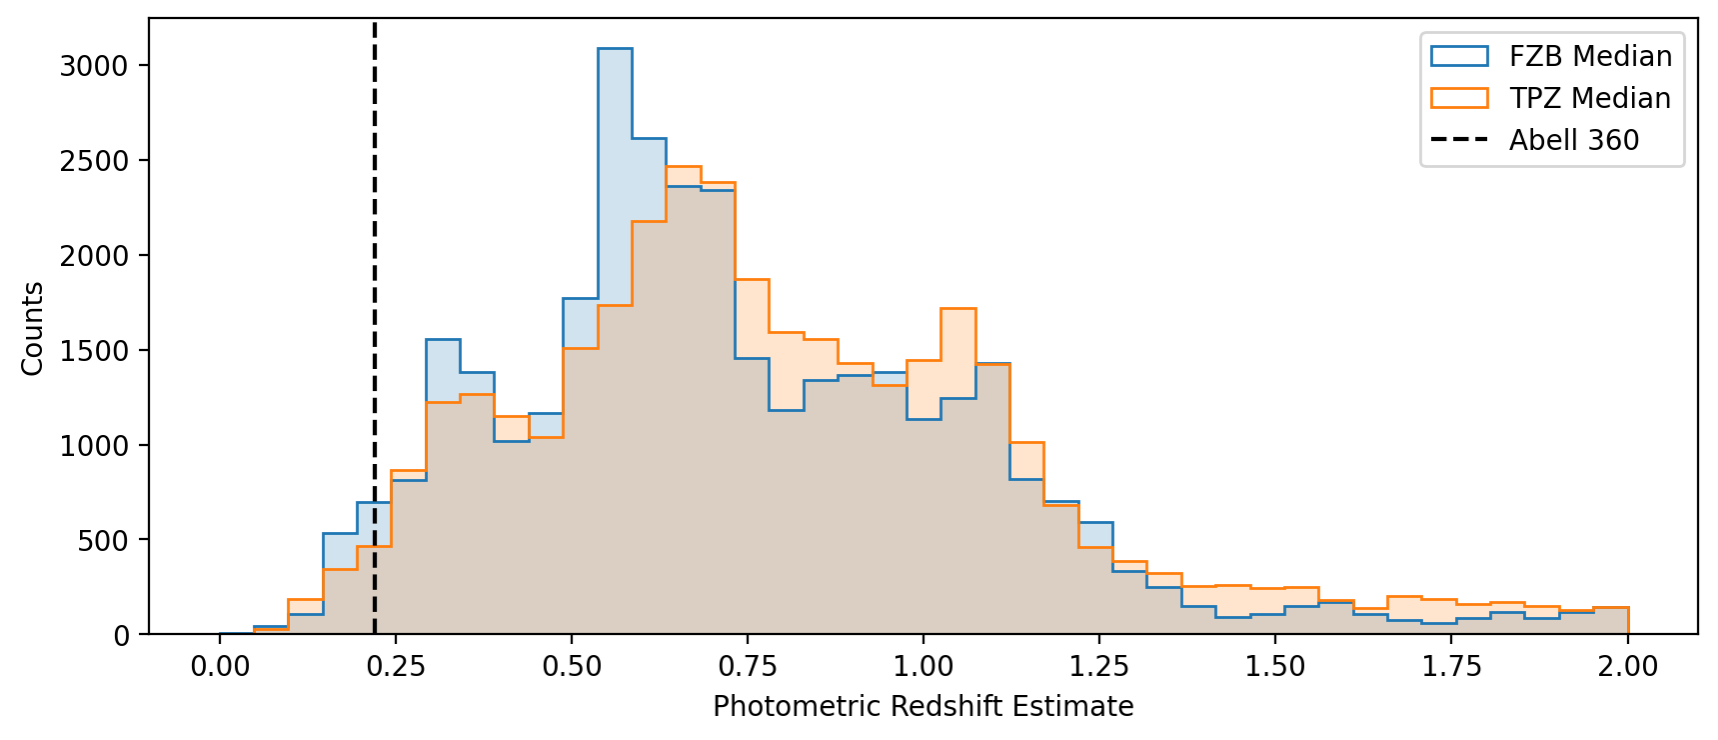
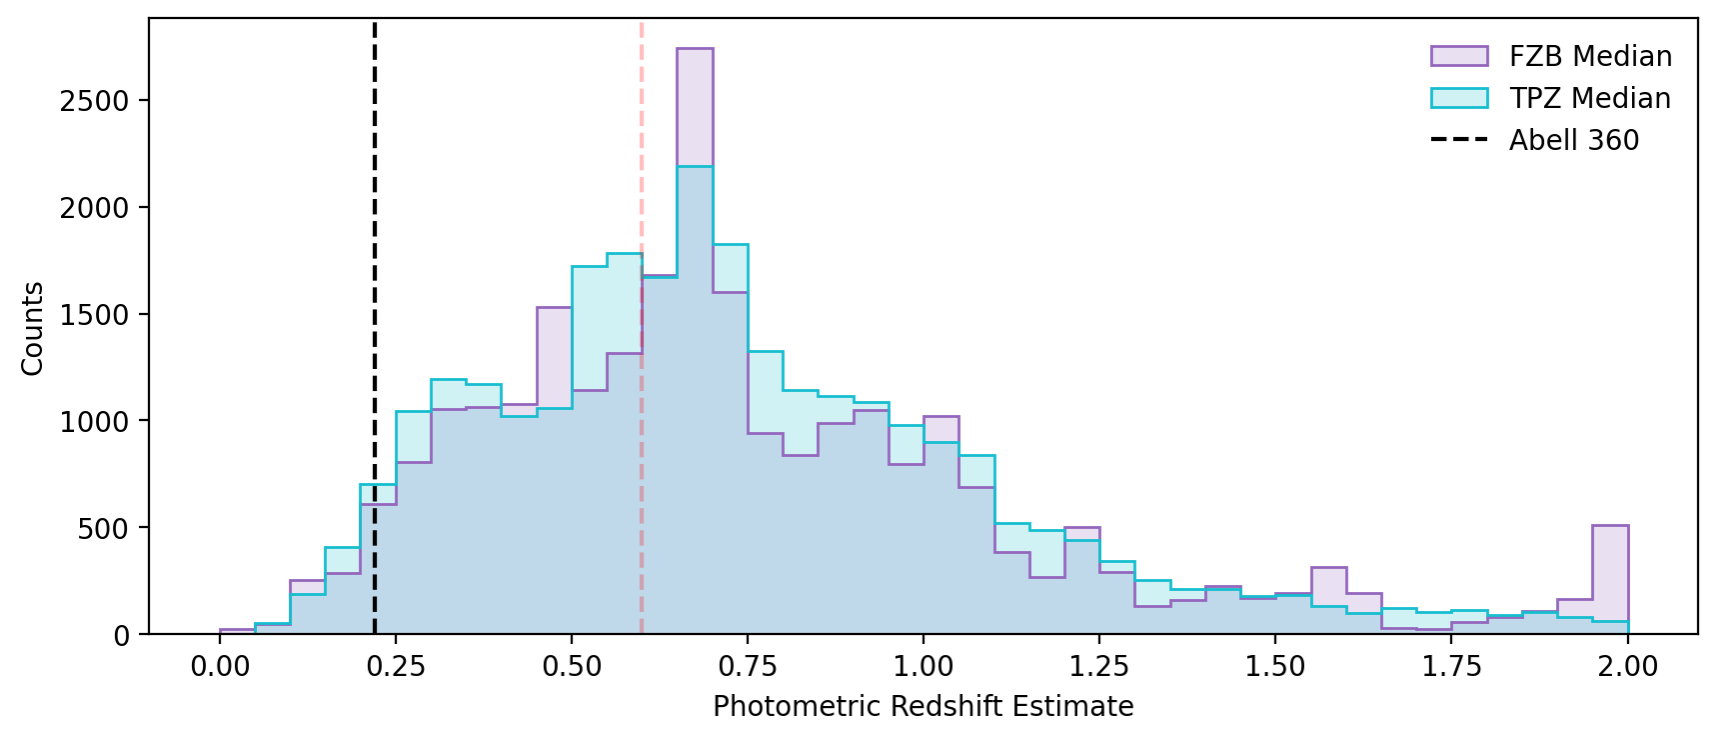
updated text, citations, and tables

diff --git a/index.md b/index.md
@@ -11,101 +11,209 @@ In order to best measure the shear profile of the cluster, we would ideally only
 
 
 ## Dataset
-The Rubin SV 38 7 field has been observed in g (44 visits), r (55 visits), i (57 visits) and z (27 visits) {cite:p}`RTN-011` with no visits in u and y-band. {cite:p}`DMTN-242`
-The DP1 catalog includes various flux measurements including cModel and gaap along with HSM shape measurements. 
+The Rubin SV 38 7 field has been observed in *g* (44 visits), *r* (55 visits), *i* (57 visits) and *z* (27 visits) {cite:p}`RTN-011` with no visits in u and y-band. {cite:p}`DMTN-242`
+The DP1 catalog includes various flux measurements including cModel and gaap along with HSM shape measurements {cite:p}`HSM1, HSM2`. 
 The HSM resolution factor, defined as $R = 1-\frac{T_\textrm{PSF}}{T_\textrm{I}}$, can be calculated from the catalog.
 Photometric redshift estimates are not included in the DP1 catalog but have been created as outlined in {cite:p}`SITCOMTN-154`.
 Similarly, details on PSF and photometric calibration are located in {cite:p}`SITCOMTN-161` and __photometric calibration technote?__ . We will focus on the various cuts made to generate the cluster lensing sample for Abell 360. 
 
 
 We apply basic quality flags to remove objects that have caused a failure in the flux measurements, namely from saturation, cosmic rays, and spurious detections.
-The flags and number of objects affected by the flag are listed in Table .
-Within 0.5 degrees of the BCG located at (ra, dec) = (37.865017, 6.982205) we have 58676 objects with measurements in griz bands.
-The counts per bin is shown in Fig  with griz bands reaching a depth of at 24.9, 24.5, 24.3, and 23.6 mags respectively.
+The flags and number of objects affected by the flag are listed in {numref}`quality_table`.
+```{table} Quality flags and number of objects affected by flag.
+:widths: auto
+:align: center
+:name: quality_table
+
+| Flag Name | Number of Objects|
+| --------- | ---------------- |
+| refExtendedness | 24892 |
+| i_iPSF_flag | 62462 |
+| i_hsmSHapeRegauss_flag | 91836 |
+| g_cModel_flag | 4016 |
+| r_cModel_flag | 4228 |
+| i_cModel_flag | 4137 |
+| z_cModel_flag | 3173 |
+| g_gaapFlux_flag | 0 |
+| r_gaapFlux_flag | 0 |
+| i_gaapFlux_flag | 6 |
+| z_gaapFlux_flag | 0 |
+```
+Within 0.5 degrees of the brightest central galaxy (BCG) located at (RA, DEC) = (37.865017, 6.982205) we have 58676 objects with measurements in *griz* bands.
+The counts per bin is shown in {numref}`galaxy-dist`  with *griz* bands reaching a depth of at 24.9, 24.5, 24.3, and 23.6 mags respectively.
 Star-galaxy separation is done using the `refExtendedness` flag which will flag objects if $\frac{\textrm{flux}_\textrm{psf}}{\textrm{flux}_\textrm{cModel}} < .985$ as galaxies giving 52309 galaxies (89%) and 6367 stars (11%).
 
 ```{figure} _static/galaxy_dist.png
+:name: galaxy-dist
 
-Distribution of galaxy magnitudes with (approximate) limiting magnitude shown as histogram with griz corresponding to blue, orange, green, and red and the magnitude limit per band shown as solid vertical line in the same color.
+Distribution of galaxy magnitudes with (approximate) limiting magnitude shown as histogram with *griz* corresponding to blue, orange, green, and red and the magnitude limit per band shown as solid vertical line in the same color.
 ```
 
 
 ## Color-cuts
 
-We can select cluster members by identifying the red sequence [citation?] in a color-magnitude diagram. Due to the lack of observations in z we focus on the gri bands and the colors (g-r, r-i, g-i) from this set. To correct for varying aperture sizes, we use gaap fluxes when combining bands for colors and use the cModel flux when calculating magnitudes. To identify the red sequence we first restrict to detections within 0.1 degrees (1.3 Mpc) of the BCG which leaves 2194 galaxies. 
-The color-magnitude diagram is shown below
+We can select cluster members by identifying the red sequence [citation?] in a color-magnitude diagram.
+Due to the lack of observations in *z* we focus on the gri bands and the colors (*g-r*, *r-i*, *g-i*) from this set.
+To correct for varying aperture sizes, we use gaap fluxes when combining bands for colors and use the cModel flux when calculating magnitudes.
+To identify the red sequence we first restrict to detections within 0.1 degrees (1.3 Mpc) of the BCG which leaves 2194 galaxies. 
+The color-magnitude diagram is shown below in {numref}`CMD_nors`
 
 
 ```{figure} _static/CMD_nors.png
+:name: CMD_nors
 
-Color-magnitude diagrams for galaxies near the BCG using cModel r magnitude on x-axis and gaap calculated colors on the y-axis. From left to right we show the, g-i, r-i, and g-r colors with the red sequence overdensity clearly visible. 
+Color-magnitude diagrams for galaxies near the BCG using cModel r magnitude on x-axis and gaap calculated colors on the y-axis. From left to right we show the *g-i*, *r-i*, and *g-r* colors with the red sequence overdensity clearly visible. 
 ```
 
-The red sequence is identified per color by eye and shown in Fig _ giving 286, 316, 286 objects in the g-i, r-i, and g-r CMDs respectively. Requiring that an object be in all three red sequences restricts us to 216 objects and is shown in Fig _.
+The red sequence is identified per color by eye and shown in {numref}`CMD_rs` giving 286, 316, 286 objects in the *g-i*, *r-i*, and *g-r* CMDs respectively. Requiring that an object be in all three red sequences restricts us to 216 objects and is shown in {numref}`CMD_all_rs`.
 
 ```{figure} _static/CMD_rs.png
+:name: CMD_rs
 
-Red sequence members identified by eye and adding a magnitude limit of $r < 24$.
+Red sequence members identified by eye and adding a magnitude limit of $r < 24$. From left to right we show the *g-i*, *r-i*, and *g-r* colors.
+ 
 ```
 
 ```{figure} _static/CMD_all_rs.png
+:name: CMD_all_rs
 
-Multi-color red sequence members.
+Multi-color red sequence members. From left to right we show the *g-i*, *r-i*, and *g-r* colors. 
 ```
 
 When applying the color cuts to the entire sample, we remove 873 galaxies and remain with 57803 galaxies. 
 
 ## Photo-Z Selection
 
-Photometric redshift (photo-z) selection is another option to remove any objects that would not be lensed by the cluster and thus dilute the signal.
-The photo-zs were estimated using FlexZBoost {cite:p}`Flexzboost1, Flexzboost2` and TreePhotoZ {cite:p}`TPZ` as implemented in RAIL {cite:p}`RAIL` using the 4 available bands griz on cModel fluxes.
-This estimator was trained on the same bands in the ECDFS field when crossed with a variety of spectroscopic, grism, and high quality photometric redshifts totaling 22,720 redshifts.
-Additional details on photo-z estimates and validation can be found in the {cite:p}`SITCOMTN-154`.
-The cluster redshift is 0.22 {cite:p}`A360z` and we place a simple cut on point estimates as photo-z > 0.3, 0.4, or 0.5.
+Photometric redshift (photo-*z*) selection is another option to remove any objects that would not be lensed by the cluster and thus dilute the signal.
+The photo-*z*s were estimated using FlexZBoost (FZB) {cite:p}`Flexzboost1, Flexzboost2`, TreePhotoZ (TPZ) {cite:p}`TPZ`, k-Nearest Neighbors (kNN) {cite:p}`RAIL`, and Bayesian Photo-zs (BPZ) {cite:p}`BPZ` as implemented in RAIL {cite:p}`RAIL` using the 4 available bands *griz* on cModel fluxes.
+These estimators were chosen as kNN and BPZ will be provided by the Rubin project for future data releases while we expect FZB and TPZ to be readily available from the community.
+The estimators were trained on the same 4 bands in the ECDFS field and then applied to the cluster field. Since the cluster redshift is 0.22 {cite:p}`A360z`, we can place a simple cut on the photo-*z* point estimates to remove any galaxies that would be unlensed by the cluster.
 
-We plot the redshift distribution for the two methods in Fig _ .
-In this field, we have overlap with the DESI {cite:p}`DESI-dr1` BGS {cite:p}`BGS`, ELG {cite:p}`ELG`, and LRG {cite:p}`LRG` catalogs  which allows us some external validationwhich we use to assess the two redshift techniques shown in Fig _.
+We plot the redshift distribution for kNN and BPZ in {numref}`knn_bpz` and for FZB and TPZ in {numref}`fzb_tpz`.
+
+```{figure} _static/bpz_knn.png
+:name: knn_bpz
+
+Photometric redshift distribution for the galaxy sample (within 0.5 deg, or 6.4 Mpc, of the central BCG) and with i < 24. Blue histogram is using the kNN median estimate, orange histogram for BPZ median, and the black line represents the cluster location. A faint red line is added to display the location of an additional photo-*z* cut used, see text for motivation in choosing these additional cuts.
+```
 
 ```{figure} _static/fzb_tpz.png
+:name: fzb_tpz
 
-Photometric redshift distribution for the galaxy sample (within 0.5 deg, or 6.4 Mpc, of the central BCG) and with i < 24. Blue histogram is using the FlexZBoost median estimate, orange histogram for TreePZ median, and the black line represents the cluster location. 
+Photometric redshift distribution for the galaxy sample (within 0.5 deg, or 6.4 Mpc, of the central BCG) and with i < 24. Purple  histogram is using the FlexZBoost median estimate, blue histogram for TreePZ median, and the black line represents the cluster location. A faint red line is added to display the location of an additional photo-*z* cut used, see text for motivation in choosing these additional cuts.
 ```
+
+In this field, we have overlap with the DESI {cite:p}`DESI-dr1` BGS {cite:p}`BGS`, ELG {cite:p}`ELG`, and LRG {cite:p}`LRG` catalogs, shown in {numref}`desi_location`, which allows us to perform simple external validation on the four redshift techniques.
+To validate the techniques, we compare the photo-z for objects with matches to the DESI sample which we show in {numref}`desi_validation_knnbpz` for kNN and BPZ and in {numref}`desi_validation_fzbtpz` for FZB and TPZ.
+Both techniques suffer at the low and high $z$ range which can be attributed to the missing *u* and *y* bands but are overall acceptable.
+For objects with spec-$z > 0.8$, it is possible that there is a mismatch between the training sample, observed sample, and validation sample which could cause systematic issues for the predictors.
+
 
 ```{figure} _static/desi_location.png
+:name: desi_location
 
-Overlap between SV 38-7 field and various DESI subsamples. Note that the BGS sample that covers the low-z regime does not uniformly cover the region and thus we are incomplete in this space.
+Overlap between SV 38-7 field and various DESI subsamples. Note that the BGS sample that covers the low-z regime does not uniformly cover the region and thus we are incomplete in this space. From {cite}`SITCOMTN-154`.
 ```
 
-```{figure} _static/desi_validation.png
+```{figure} _static/desi_validation_fzbtpz.png
+:name: desi_validation_fzbtpz
 
-Validation for FlexZBoost(FlexZBoost) and TPZ (TreePhotoZ) with spectroscopic redshift on x-axis and estimated photometric redshift on y-axis. 
+Validation for FZB and TPZ with spectroscopic redshift on x-axis and estimated photometric redshift on y-axis. 
+```
+
+```{figure} _static/desi_validation_knnbpz.png
+:name: desi_validation_knnbpz
+
+Validation for kNN and BPZ with spectroscopic redshift on x-axis and estimated photometric redshift on y-axis. 
+```
+
+For kNN and BPZ, we make cuts at photo-$z = 0.22$ and $0.45$.
+The first cut is directly at the cluster redshift and would remove most cluster members if we had perfect photo-*z*s and the second to remove the spike in the distribution from {numref}`knn_bpz`.
+For FZB and TPZ, we make cuts at photo-$z = 0.22$ and $0.6$. The second cut from TPZ overestimating redshift of objects up until $z\approx 0.6$ as shown in {numref}`desi_validation_fzbtpz`.
+
+For more details on the matching and performance of other photo-z estimators on this field, and DP1 in general, please refer to {cite}`SITCOMTN-154`.
+
+## Shear profiles and N(z)
+With a variety of source selection methods available, we can compare the $N(z)$ and final HSM shear profile from each source to see if the subsamples are relatively stable.
+Following {cite}`HSC_wlen`, we also apply a set of weak lensing cuts to both samples to ensure that the sample has good quality shape measurements.
+The cuts and values used are listed below in {numref}`weaklen_table`
+```{table} Weak Lensing Cuts
+:widths: auto
+:align: center
+:name: weaklen_table
+| Column |
+| ------ |
+| refExtendedness > 0.5 | 
+| i_cModel_mag $\leq$ 24 |
+| $\frac{\textrm{i_cModelFlux}}{\textrm{i_cModelFluxErr}} \geq 10$ |
+| i_hsmShapeRegauss_e1$^2$ + i_hsmShapeRegauss_e2$^2 \leq 4$ |
+| $1-\frac{T_\textrm{PSF}}{T_\textrm{I}} \geq 0.3$ |
+| i_blendedness $\leq 0.42$ |
 ```
 
 
-## Comparison
+### Shear Profile
+To calculate the shear profile, we first convert from $e_1$ and $e_2$ to $\gamma_1$ and $\gamma_2$ by applying HSC Y1 shear calibration {cite:p}`HSCCalib1, HSCCalib2`.
+Note that each sample has its own set of calibration parameters but they are quite similar.
+<!--For other shear calibration techniques please see [Anacal technote] for results when applying Anacal, and {cite}`SITCOMTN-162` for Metadetect.-->
+Once calibrated, we can convert the shears to tangential and cross copmonents using the cluster BCG, located at (RA, DEC) = (37.865017, 6.982205), using 
+```{math}
+\gamma_+ &= -\gamma_1 \cos{2\phi} - \gamma_2\sin{2\phi} \\
+\gamma_\times &= \gamma_1 \sin{2\phi} - \gamma_2\cos{2\phi}
+```
 
-We compare the two methods using n(z) and the shear profile. We use ECDFS photo-zs to estimate a n(z) distribution from color cuts by applying the same cuts to both profiles. This lets us use higher quality photo-z estimates in a 6 band field while maintaining a very similar selection function. ECDFS is observed to greater depth but applying a magnitude cut of $i < 24$ should mimic the SV 38-7 limit. To create an n(z) estimate we simply stack the the point photo-z estimates
+Once calibrated and converted, we can extract a shear profile centered on the BCG and vary the color cuts applied which we present in {numref}`shear_profile_cc`.
+Notably, the profile is quite insensitive to the specific color cut chosen with the tangential components located at similar values and the cross component mostly consistent with 0. 
+Similarly, we can apply varied photo-*z* cuts which we show in {numref}`shear_profile_fzb` for FZB and TPZ, and in {numref}`shear_profile_knn` for kNN and BPZ.
+While there is a larger spread on the value of the $\gamma_+$ between the cuts, the signal is quite similar to the color-cut profile and similarly passes the null test of $\gamma_\times = 0$ aside from the innermost bin which only has $\sim 30$ galaxies.
 
 
 ```{figure} _static/shear_profile_cc.png
+:name: shear_profile_cc
 
 The shear profile with varying color cuts. The tangential shear component is shown with circular points and cross shear component with x points. The error bar represents a 95% confidence interval from bootstrapped samples. “All colors” refers to using all three red sequences and is shown in dark blue, "g-i" uses points found only on the $g-i$ red sequence and is shown in light blue, "r-i" for the $r-i$ redsequence and shown in light red, and "g-r" for the $g-r$ redsequence and shown in dark red. The points are staggered on the x-axis for clarity. 
 ```
 
-```{figure} _static/shear_profile_pz.png
+```{figure} _static/shear_profile_pz_fzbtpz.png
+:name: shear_profile_fzb
 
-The shear profile with varying photo-z cuts. Same formatting as above figure. The cut with photo-z > 0.22 is shown in dark blue, photo-z > 0.3 is shown in light blue, photo-z > 0.4 in light red, and photo-z > 0.5 in dark red. 
+The shear profile with varying FZB photo-z cuts.  Same formatting as above figure. The cut with photo-*z* > 0.22 is shown in dark blue, photo-*z* > 0.4 is shown in light blue, photo-*z* > 0.6 in light red, and photo-z > 0.5 in dark red. 
 ```
 
-```{figure} _static/fzb_nz.png
+```{figure} _static/shear_profile_pz_knnbpz.png
+:name: shear_profile_knn
+
+The shear profile with varying FZB photo-z cuts.  Same formatting as above figure. The cut with photo-*z* > 0.22 is shown in dark blue, photo-*z* > 0.4 is shown in light blue, photo-*z* > 0.6 in light red, and photo-z > 0.5 in dark red. 
+```
+
+### N(z)
+To estimate the $N(z)$ when using color cuts, we use the ECDFS photo-*z*s and apply the same red sequence and weak lensing cuts.
+The ECDFS field was observed in 6 bands which enables higher quality photo-*z* estimates and by using the same instrument, we have a very similar selection function between the two fields.
+The weak lensing cut requiring $i < 24$ helps mitigate any difference in depth between the two samples. 
+The $N(z)$ from color cuts is presented in {numref}`nz_knnbpz` for kNN and BPZ and in {numref}`nz_fzbtpz` for FZB and TPZ.
+
+<!--```{figure} _static/fzb_nz.png
+:name: fzb_nz
 
 The estimated n(z) using the FZB with the various photo-z cuts imposed as dashed lines. 
+```-->
+
+```{figure} _static/ECDFS_nz_knnbpz.png
+:name: nz_knnbpz
+
+The estimated n(z) using ECDFS kNN (top panel) and BPZ (bottom panel) photo-$z$ estimates and applying the "all colors" color cut. In both panels, the lighter color is used to display the distribution before applying the color cut, and darker after. Note that we have applied several additional weak lensing cuts as apposed to the simple photometry quality flags in {numref}`knn_bpz`.
 ```
 
-```{figure} _static/ECDFS_nz.png
+```{figure} _static/ECDFS_nz_fzbtpz.png
+:name: nz_fzbtpz
 
-The estimated n(z) using ECDFS FZB estimates and applying the "all colors" color cut.
+The estimated n(z) using ECDFS FZB (top panel) and TPZ (bottom panel) photo-$z$ estimates and applying the "all colors" color cut. In both panels, the lighter color is used to display the distribution before applying the color cut, and darker after. Note that we have applied several additional weak lensing cuts as apposed to the simple photometry quality flags in {numref}`fzb_tpz`.
 ```
+
+
+
+
+
 
 
 ## References 
